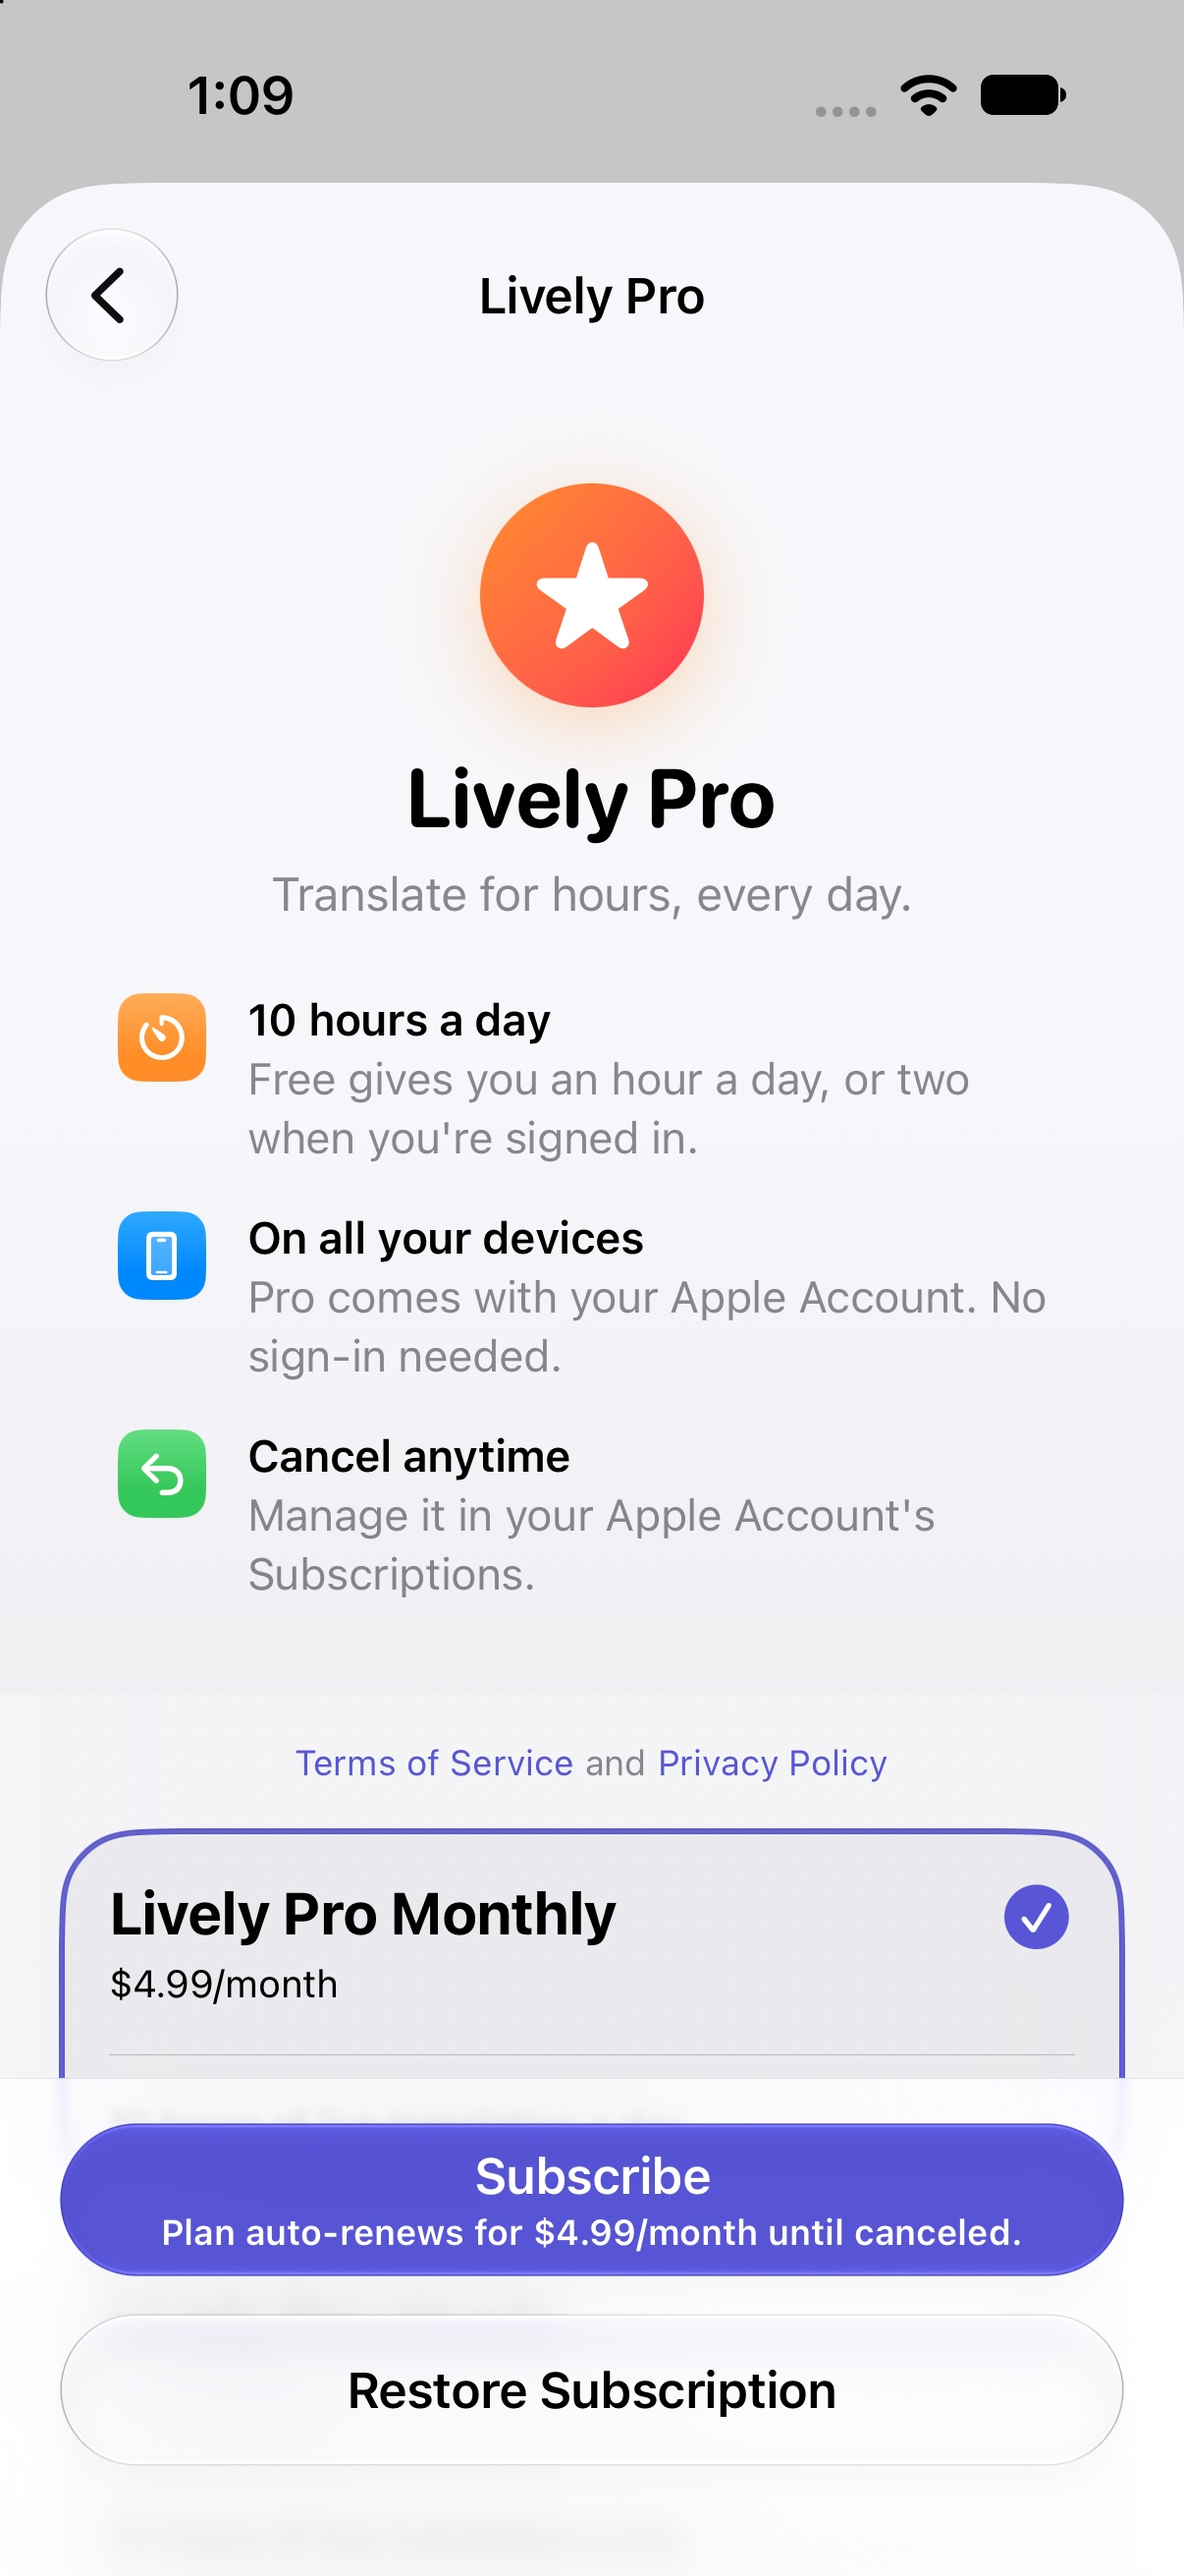
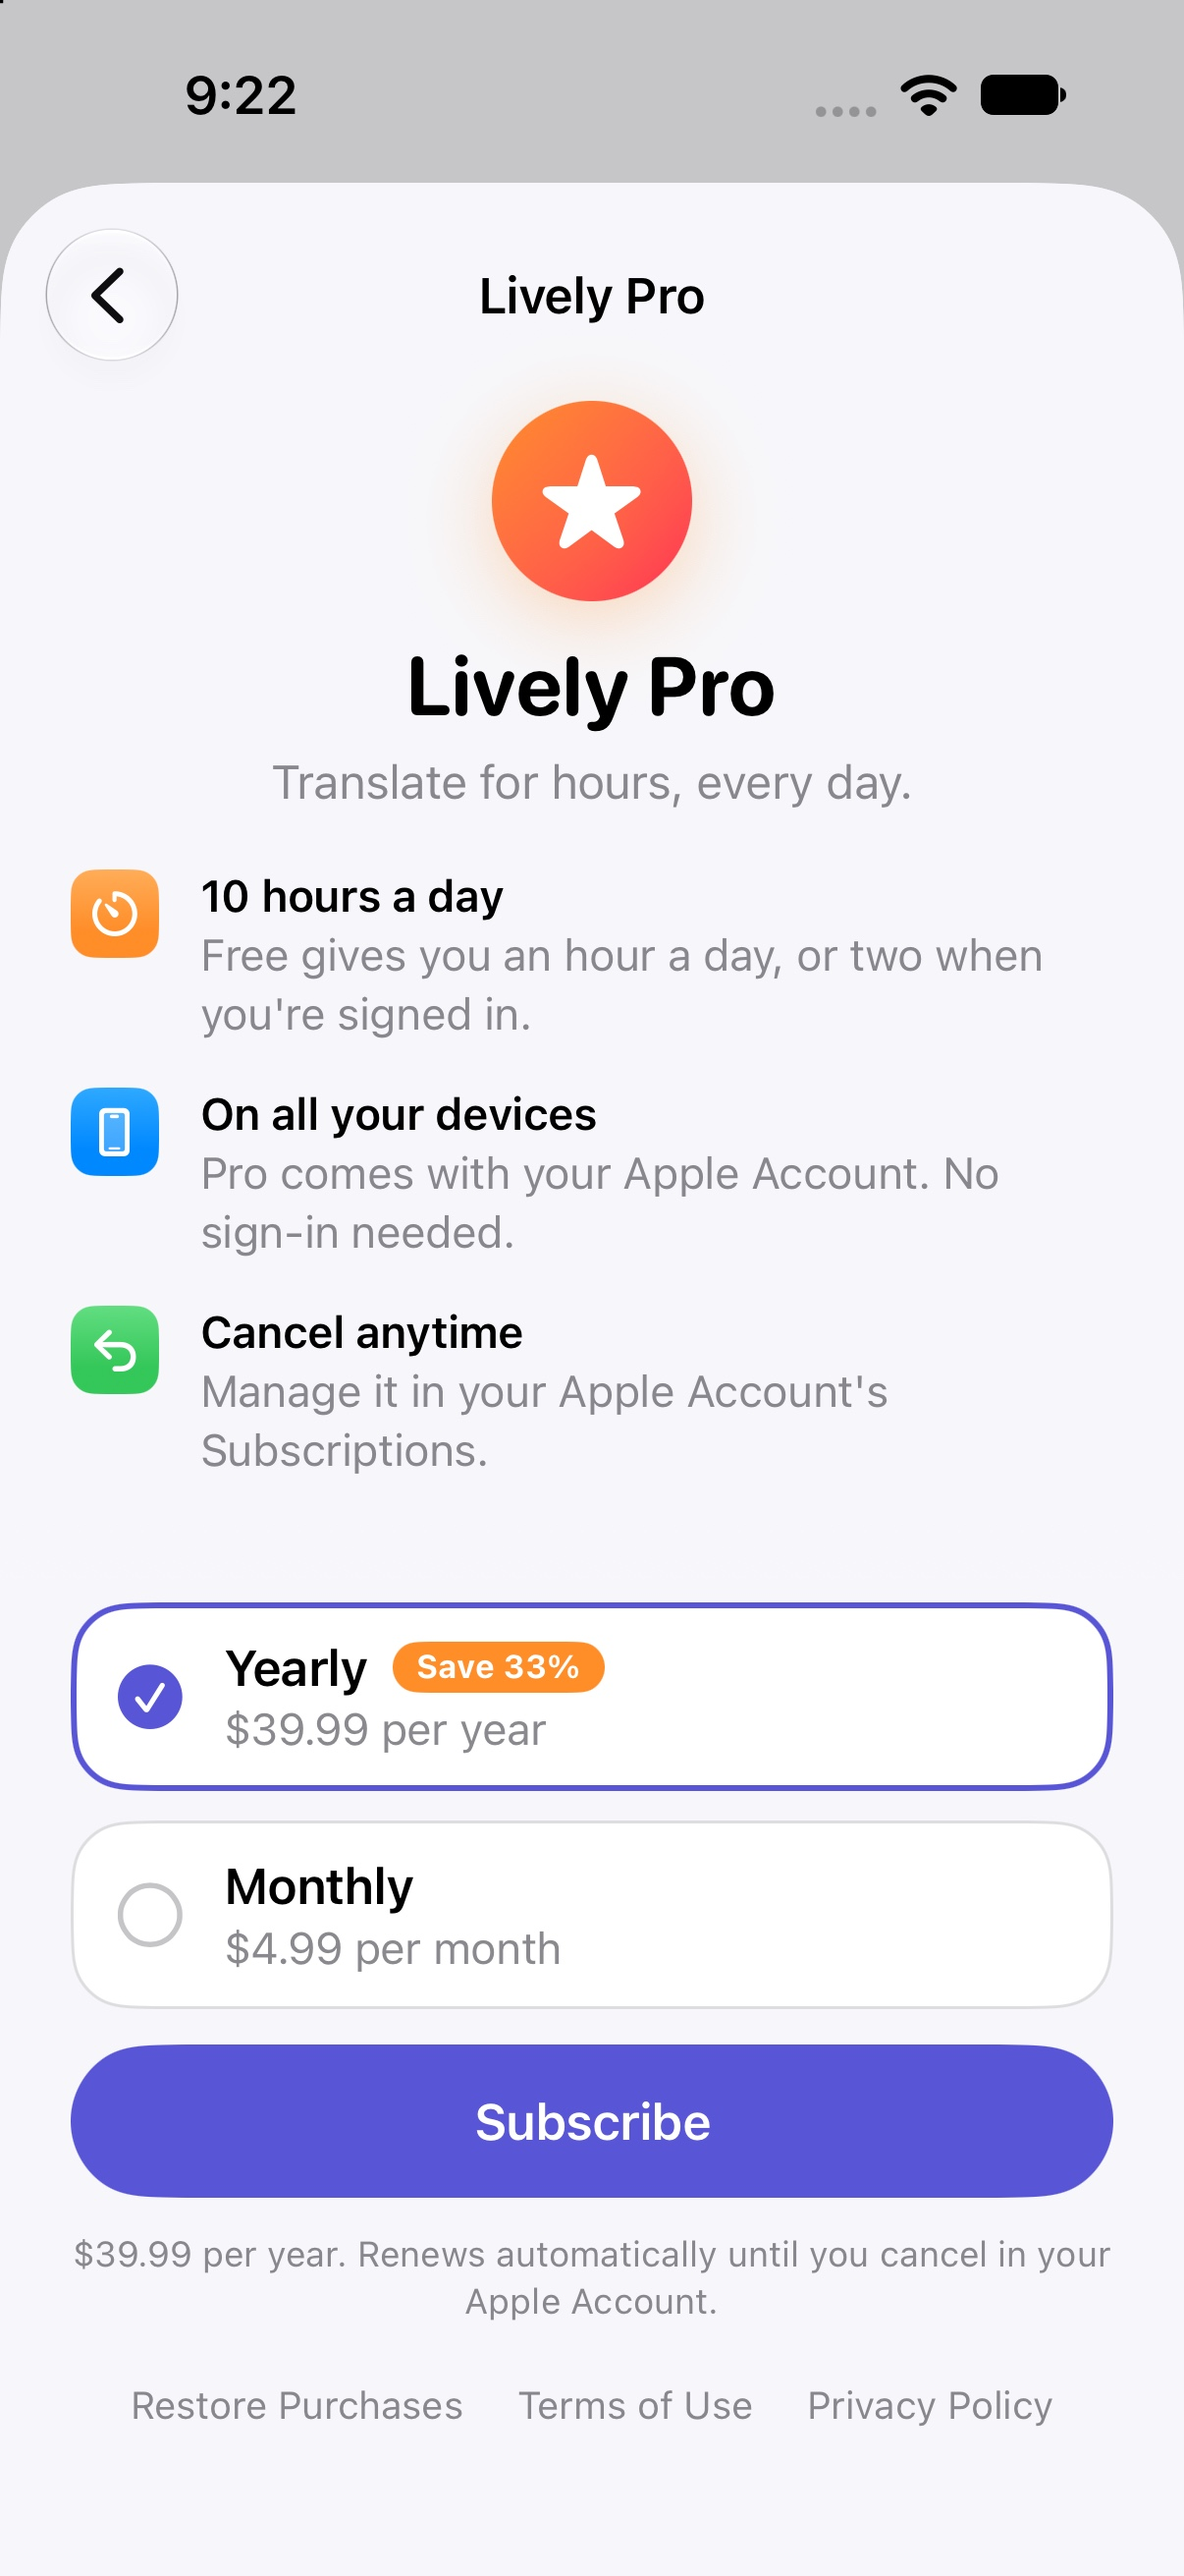
chore: refresh subscription review images and content rights

diff --git a/AppStore/metadata.md b/AppStore/metadata.md
@@ -79,7 +79,7 @@ The product IDs must match `Pro.productIDs` in the app and `APP_STORE_PRODUCT_ID
 
 ## Content and privacy declarations
 
-- Content rights: Lively does not contain, show, or access third-party content.
+- Content rights: Lively displays Apple Maps place results and offers third-party voice assets. Cautela Limited confirmed the necessary rights for the selected territories.
 - Age rating: None for all mature-content categories; no unrestricted web access, user-generated-content feed, remote messaging, advertising, gambling, or health content.
 - Privacy policy: `https://lively.cautela.hk/privacy`
 - Account deletion URL: `https://lively.cautela.hk/delete-account`
@@ -120,8 +120,8 @@ custom artwork, and device frames. Raw captures are retained separately.
 - Rebuild with `swift Tools/store-assets/render.swift` from the repository root.
   Obtain the official Apple frames as described in `creative/device-frames/README.md`.
 - Main screenshot: “Every word. Both languages.”; four panels total.
-- Subscription review screenshot: `review/lively-pro-paywall.jpg`, captured
-  from the app with the matching local StoreKit catalog.
+- Subscription review screenshots: `review/lively-pro-paywall.jpg` (yearly) and
+  `review/lively-pro-monthly.jpg` (monthly), each captured with its plan selected.
 - Artwork provenance and prompt: `creative/PROMPT.md`.
 
 The private reviewer address and code are stored in
